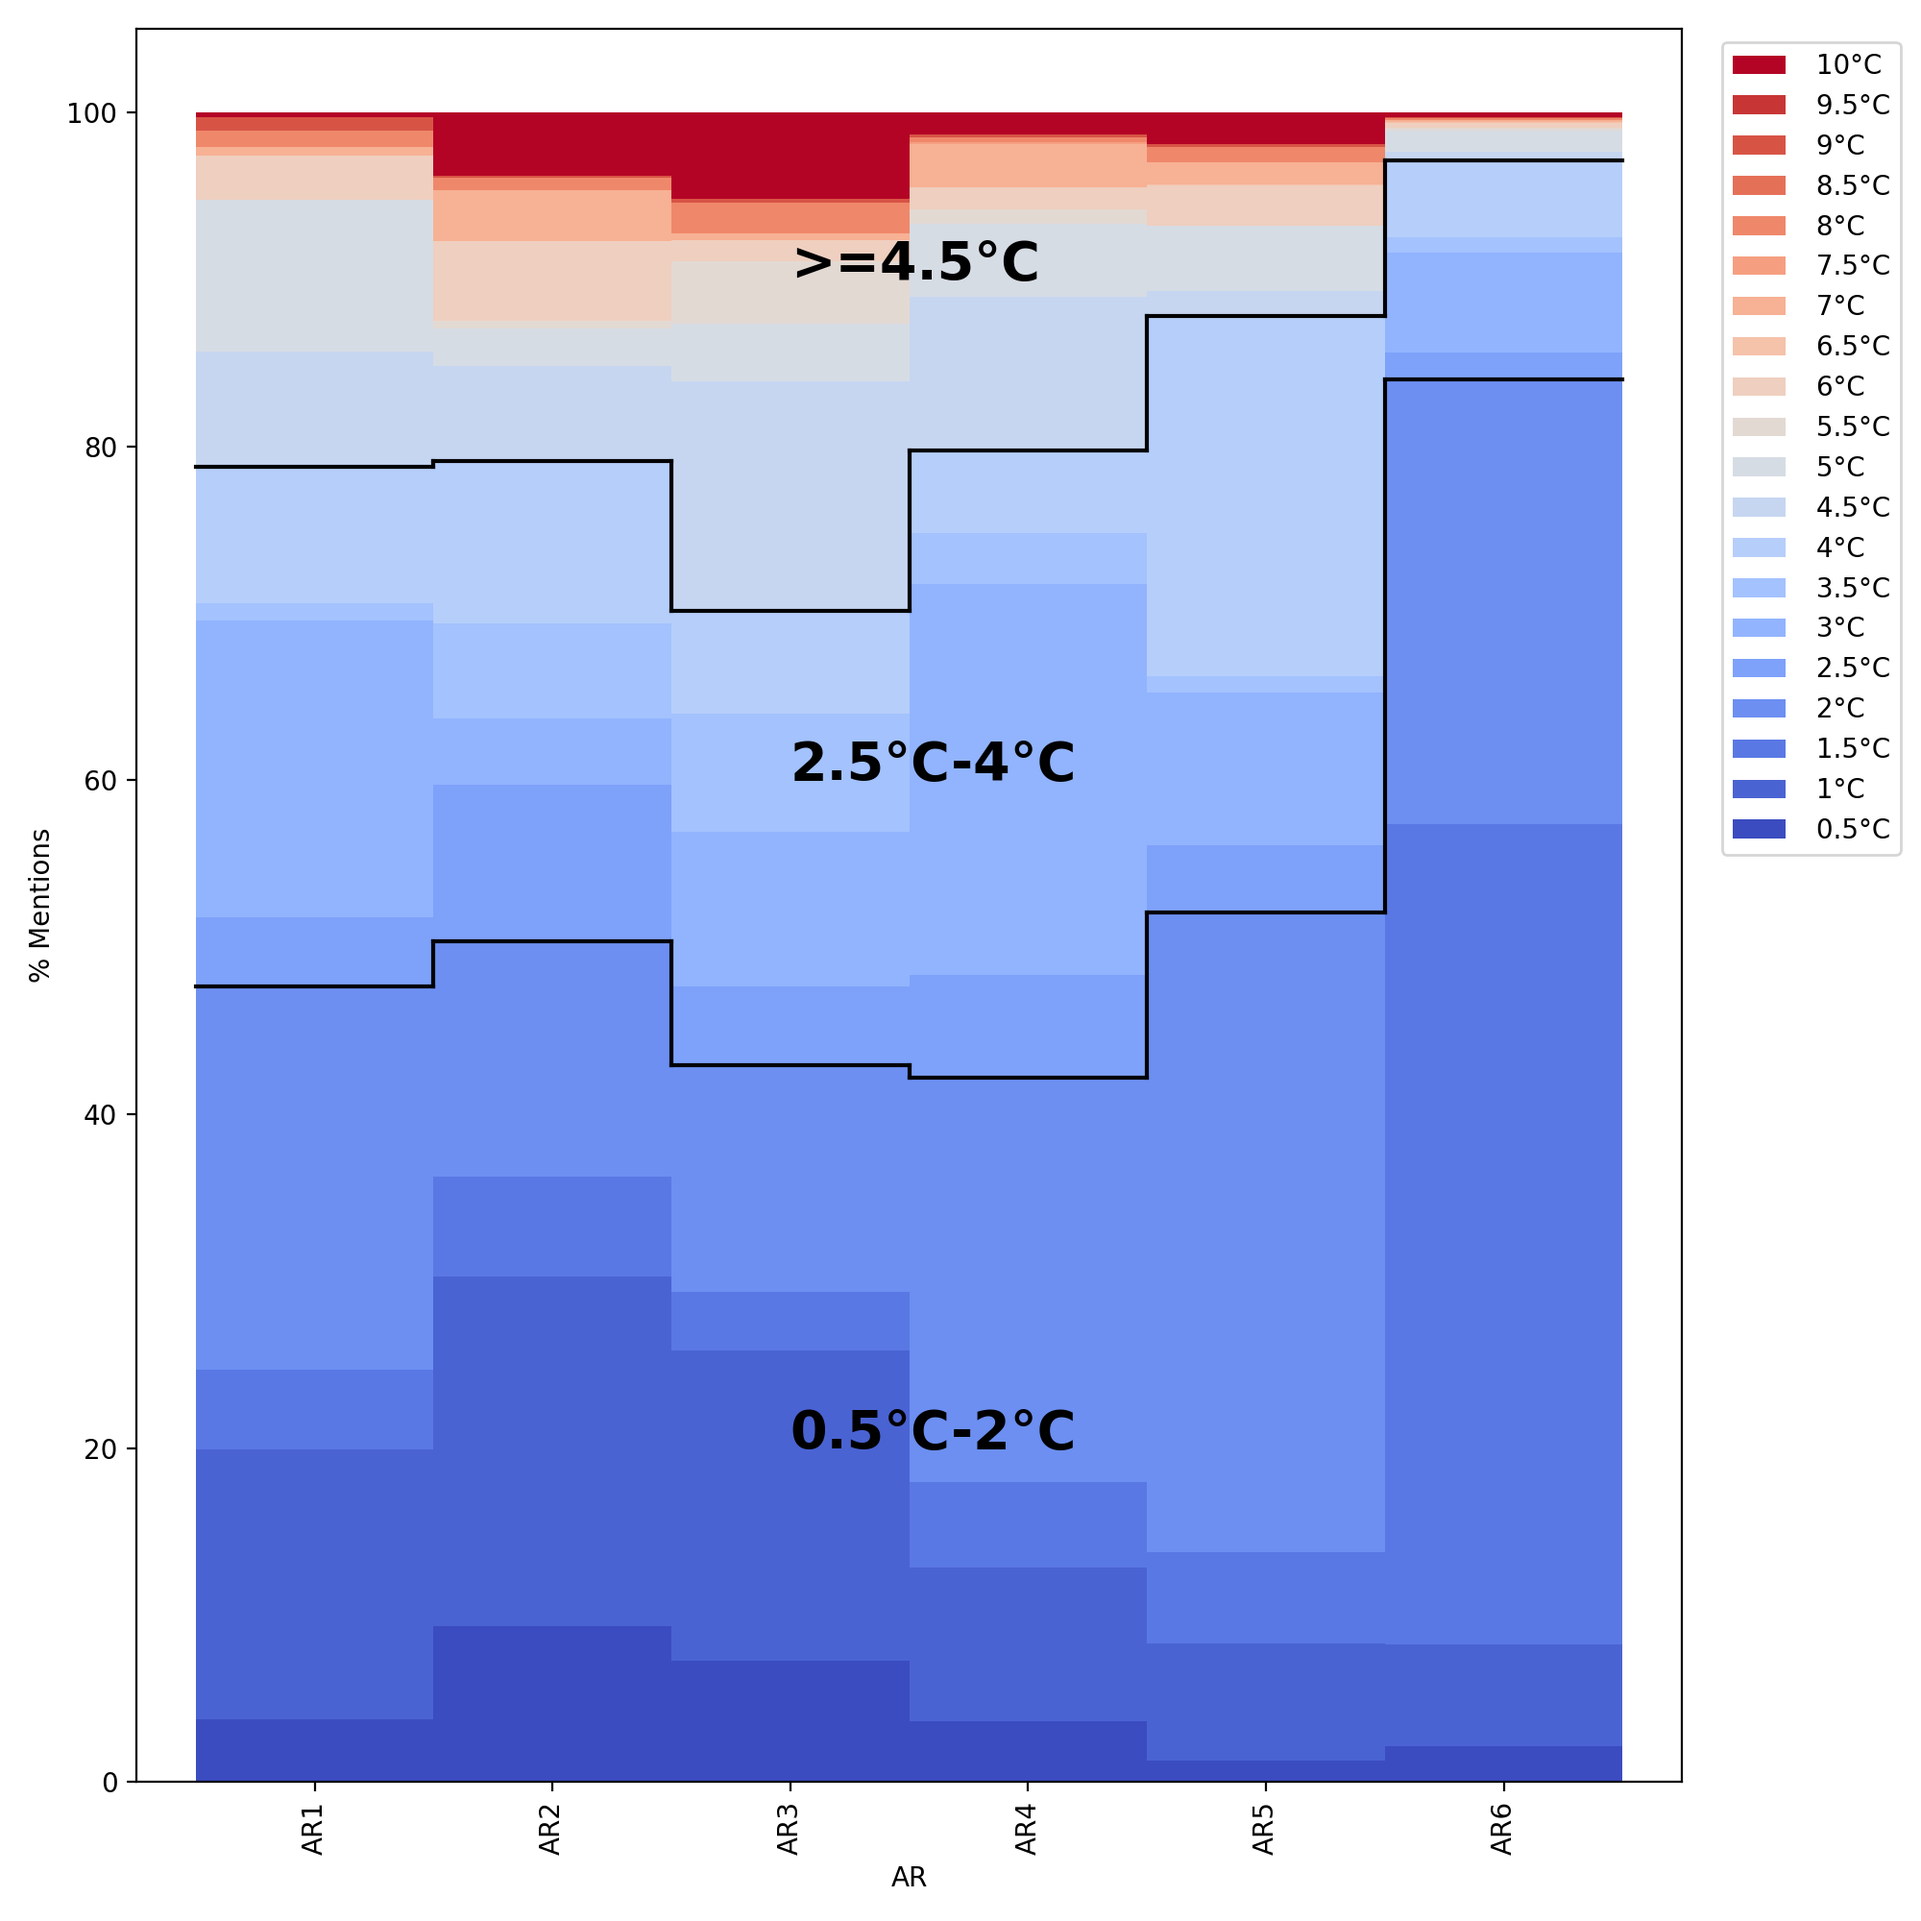
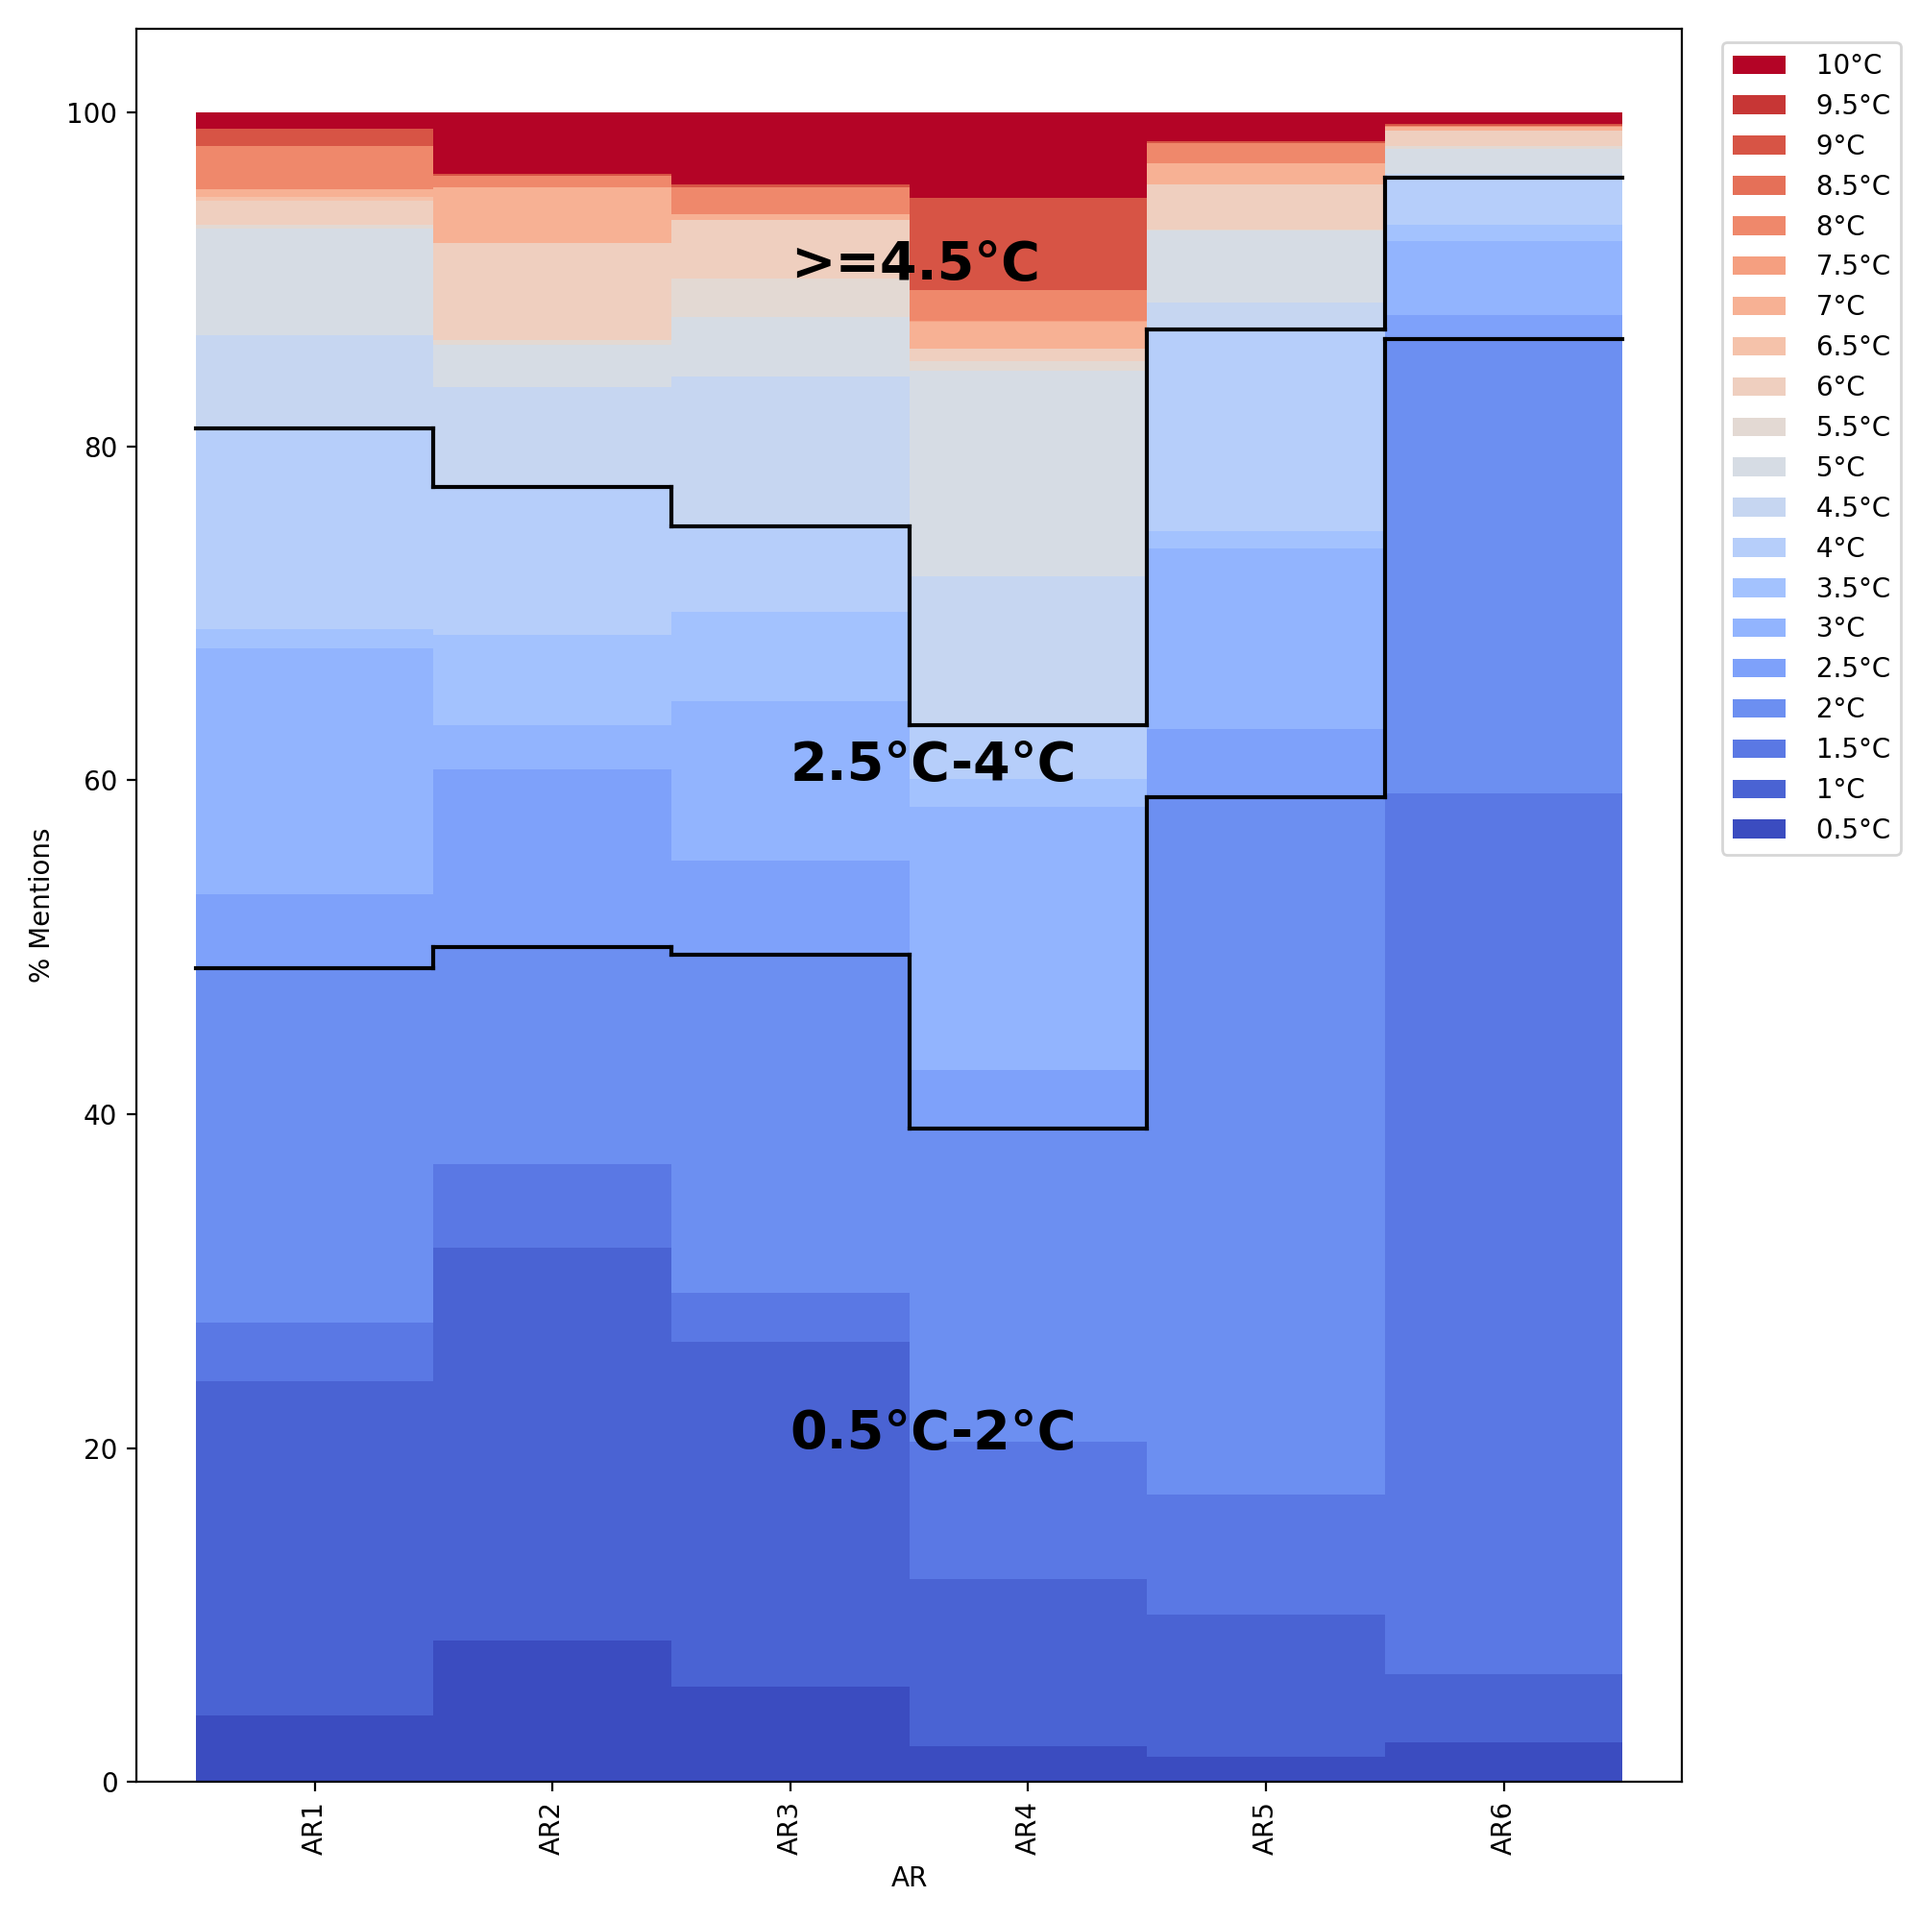
Finished fig 1 with enw data

diff --git a/figure_1.py b/figure_1.py
@@ -36,11 +36,8 @@ def read_ipcc_counts():
     files = os.listdir(os.getcwd()+os.sep+"Results")
     all_df = pd.DataFrame()
     for file in files:
-        # skip the total counts for now
-        if file == 'temp_counts_all.csv':
-            continue
         file_df = pd.read_csv("Results" + os.sep + file, sep=";", index_col=0)
-        file_df.columns = [file[7:-4]]
+        file_df.columns = [file[:-4]]
         all_df = pd.concat([all_df, file_df], axis=1)
         
     return all_df.transpose()
@@ -56,7 +53,7 @@ def scale_counts(ipcc_counts):
     
 def read_meta():
     """reads in the meta data of the reports"""
-    meta = pd.read_csv("Reports" + os.sep + "meta_data_reports.tsv", sep="\t", index_col=-1)
+    meta = pd.read_csv("Reports" + os.sep + "meta_data_reports.tsv", sep="\t")
     meta["Year"]  = meta["Year"].astype("str")
     return meta
 
@@ -69,7 +66,7 @@ def group_temps(ipcc_counts):
     
 
 def merge_counts_meta(ipcc_counts, meta):
-    return pd.merge(meta, ipcc_counts, right_index=True, left_index=True) 
+    return pd.merge(meta, ipcc_counts, right_index=True, left_on="count_names") 
 
 
 def plot_all_temp_by_ar(ipcc_counts, meta):
@@ -80,7 +77,7 @@ def plot_all_temp_by_ar(ipcc_counts, meta):
     temp_groups =  ipcc_counts_grouped.columns
     # prep for plotting
     counts_meta = merge_counts_meta(ipcc_counts, meta)
-    counts_meta = merge_counts_meta(counts_meta, ipcc_counts_grouped)
+    counts_meta = merge_counts_meta(ipcc_counts_grouped, counts_meta)
     temps = create_temp_keys()
     # Plot the seperate temps
     ax = counts_meta.groupby("AR")[temps].mean().plot(cmap="coolwarm", kind="bar", width=1, stacked=True)    
@@ -126,13 +123,61 @@ def create_temp_keys():
     return temps
 
 
+def lookup_names():
+    """"Returns lookup dict for different files names to merge them"""
+    lookup_dict = {
+        "IPCC_AR6_WGI_Full_Report":"counts_ReportsIPCCAR6WGIFullReportpdf_parsed",
+        "SROCC_FullReport_FINAL":"counts_ReportsSROCCFullReportFINALpdf_parsed",
+        "210714-IPCCJ7230-SRCCL-Complete-BOOK-HRES":"counts_Reports210714IPCCJ7230SRCCLCompleteBOOKHRESpdf_parsed",
+        "SR15_Full_Report_Low_Res":"counts_ReportsSR15FullReportLowRespdf_parsed",
+        "SYR_AR5_FINAL_full":"counts_ReportsSYRAR5FINALfullwcoverpdf_parsed",
+        "ipcc_wg3_ar5_full":"counts_Reportsipccwg3ar5fullpdf_parsed",
+        "WGIIAR5-PartA_FINAL":"counts_ReportsWGIIAR5PartBFINALpdf_parsed",
+        "WGIIAR5-PartB_FINAL":"counts_ReportsWGIIAR5PartAFINALpdf_parsed",
+        "WG1AR5_all_final":"counts_ReportsWG1AR5allfinalpdf_parsed",
+        "SREX_Full_Report-1":"counts_ReportsSREXFullReport1pdf_parsed",
+        "SRREN_Full_Report-1":"counts_ReportsSRRENFullReport1pdf_parsed",
+        "ar4_syr_full_report":"counts_Reportsar4syrfullreportpdf_parsed",
+        "ar4_wg2_full_report":"counts_Reportsar4wg2fullreportpdf_parsed",
+        "ar4_wg1_full_report-1":"counts_Reportsar4wg1fullreport1pdf_parsed",
+        "ar4_wg3_full_report-1":"counts_Reportsar4wg3fullreport1pdf_parsed",
+        "sroc_full-1":"counts_Reportssrocfull1pdf_parsed",
+        "srccs_wholereport-1":"counts_Reportssrccswholereport1pdf_parsed",
+        "SYR_TAR_full_report":"counts_ReportsSYRTARfullreportpdf_parsed",
+        "WGII_TAR_full_report-2":"counts_ReportsWGIITARfullreport2pdf_parsed",
+        "WGI_TAR_full_report":"counts_ReportsWGITARfullreportpdf_parsed",
+        "WGIII_TAR_full_report":"counts_ReportsWGIIITARfullreportpdf_parsed",
+        "srl-en-1":"counts_Reportssrlen1pdf_parsed",
+        "srtt-en-1":"counts_Reportssrtten1pdf_parsed",
+        "emissions_scenarios-1":"counts_Reportsemissionsscenarios1pdf_parsed",
+        "av-en-1":"counts_Reportsaven1pdf_parsed",
+        "The-Regional-Impact":"counts_ReportsTheRegionalImpactpdf_parsed",
+        "2nd-assessment-en-1":"counts_Reports2ndassessmenten1pdf_parsed",
+        "ipcc_sar_wg_III_full_report":"counts_ReportsipccsarwgIIIfullreportpdf_parsed",
+        "ipcc_sar_wg_II_full_report":"counts_ReportsipccsarwgIIfullreportpdf_parsed",
+        "ipcc_sar_wg_I_full_report":"counts_ReportsipccsarwgIfullreportpdf_parsed",
+        "climate_change_1994-2":"counts_Reportsclimatechange19942pdf_parsed",
+        "ipcc-technical-guidelines-1994n-1":"counts_Reportsipcctechnicalguidelines1994n1pdf_parsed",
+        "ipcc_wg_I_1992_suppl_report_full_report":"counts_ReportsipccwgI1992supplreportfullreportpdf_parsed",
+        "ipcc_wg_II_1992_suppl_report_full_report":"counts_ReportsipccwgII1992supplreportfullreportpdf_parsed",
+        "ipcc_90_92_assessments_far_full_report":"counts_Reportsipcc9092assessmentsfarfullreportpdf_parsed",
+        "ipcc_far_wg_III_full_report":"counts_ReportsipccfarwgIIIfullreportpdf_parsed",
+        "ipcc_far_wg_II_full_report":"counts_ReportsipccfarwgIIfullreportpdf_parsed",
+        "ipcc_far_wg_I_full_report":"counts_ReportsipccfarwgIfullreportpdf_parsed",
+        }
+    return lookup_dict
+    
+#ReportsWGIIITARfullreportpdf_parsed
 if __name__ == "__main__":
     # Define basic stuff
     min_temp_found = 5
     
-    # get the data
-    meta = read_meta()
+    # get the data    
     ipcc_counts = read_ipcc_counts()
+
+    meta = read_meta()
+    # Get the other file names to be able to merge later
+    meta["count_names"] = meta["PDF Name"].map(lookup_names())
     
     # Remove the ones with few entries overall
     ipcc_counts = ipcc_counts[ipcc_counts.sum(axis=1)>min_temp_found]
@@ -142,7 +187,6 @@ if __name__ == "__main__":
 
 
     # TODO
-    # why meta_coutns only 36 long?
     # exclude reports with fewer than 10 entries?
     
     
